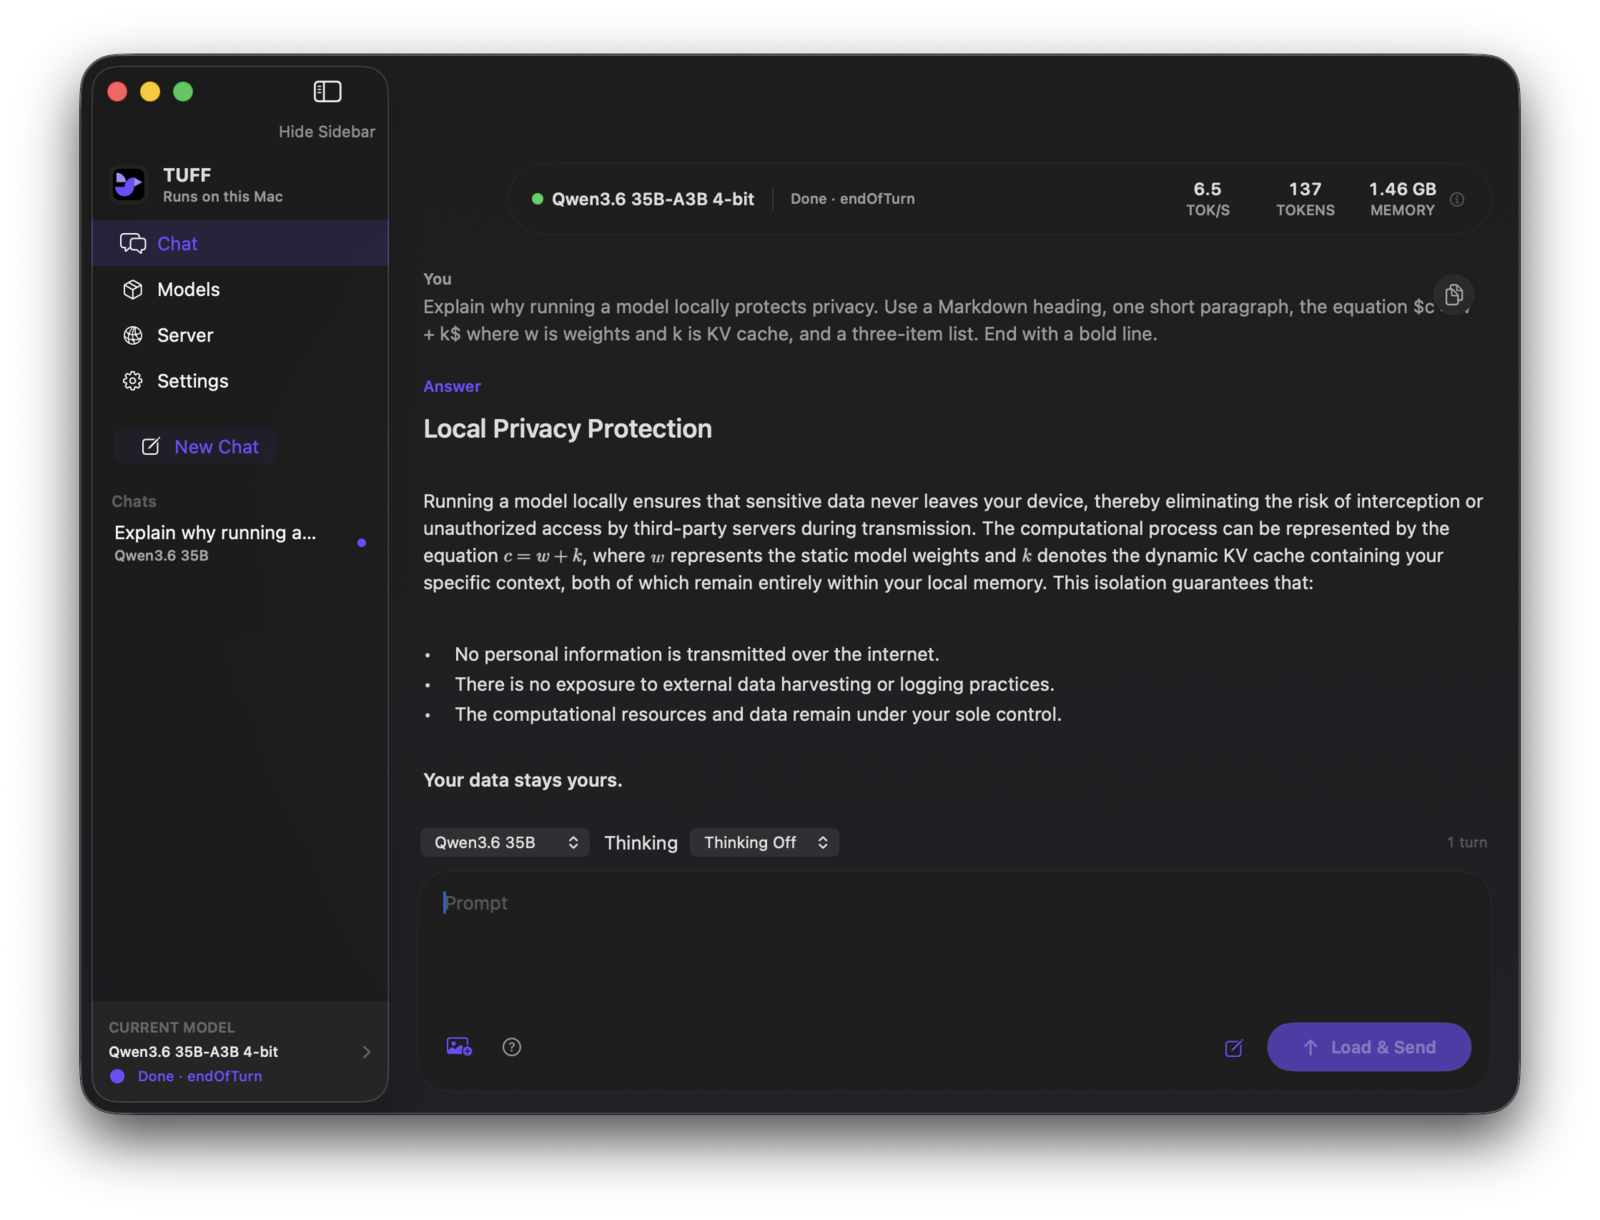
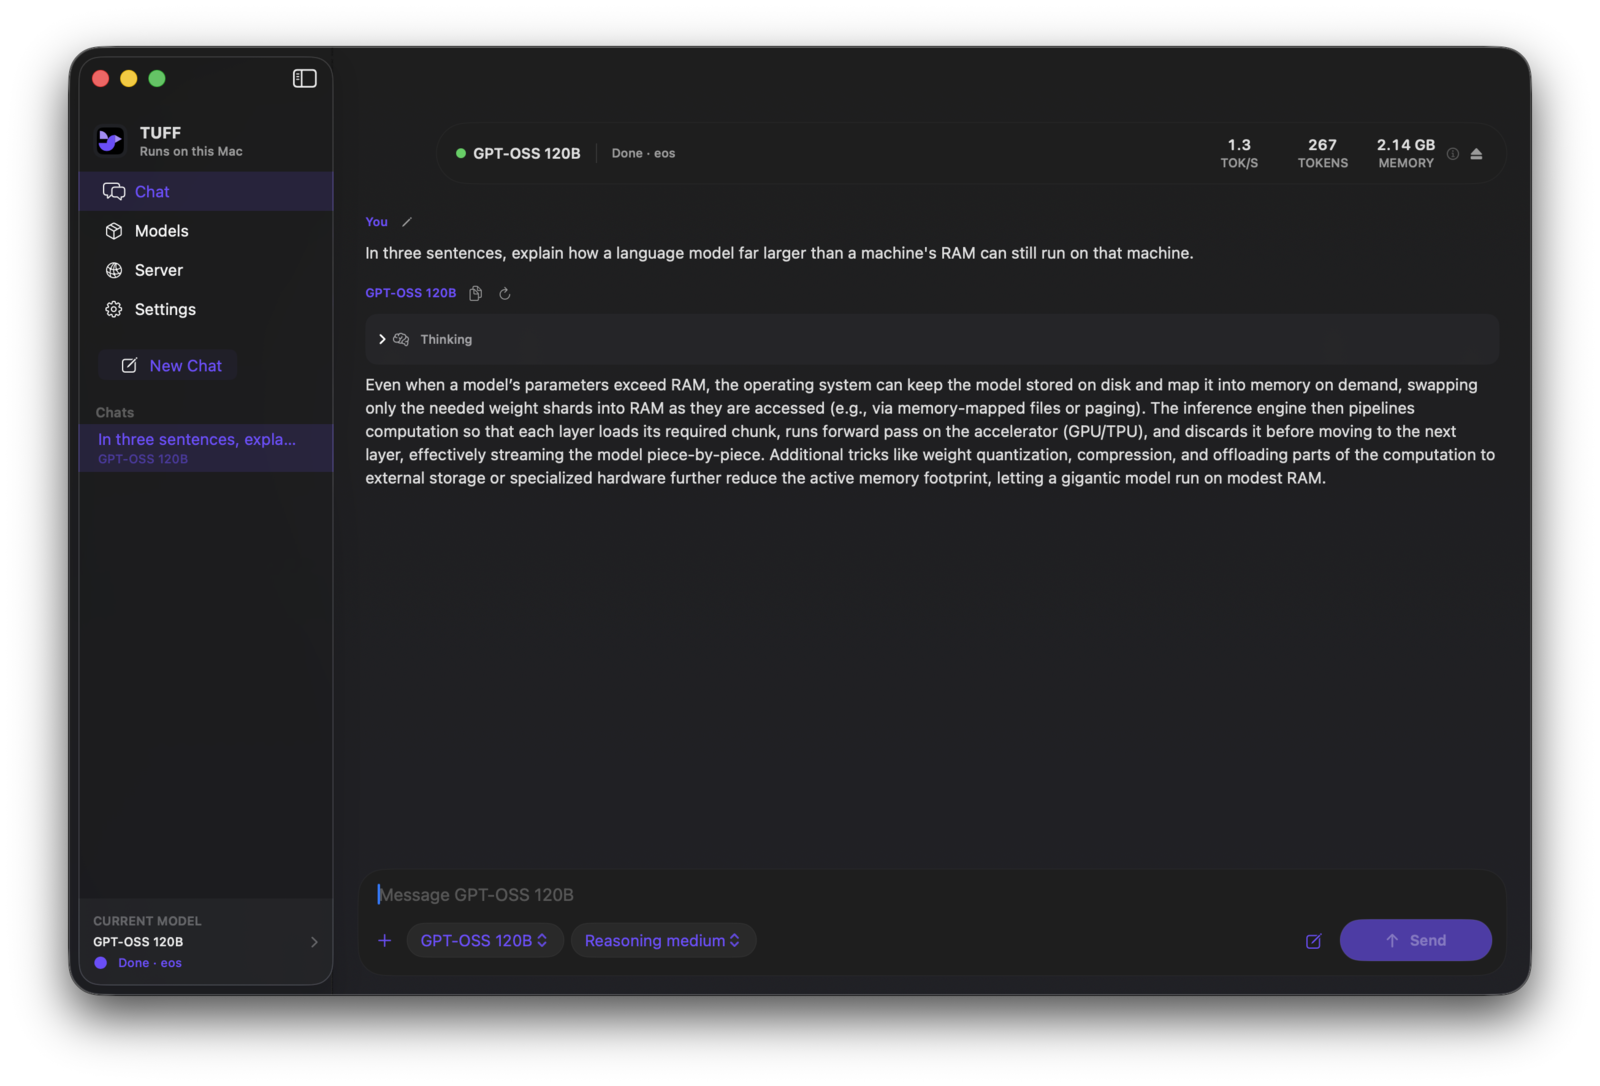
Show v3 in the README and on the site
The model table was missing E2B and 12B QAT, said only the 26B and Qwen
had image packs, and listed five of the seven installer selectors. The
screenshot still showed v2 running Qwen; it now shows GPT-OSS 120B
answering on a 16 GB Mac, which is the claim the page is making.

The download buttons only changed brightness on hover, which is easy to
miss on a dark page. They now lift and scale slightly with a violet cast
under the primary one, keep a visible focus ring for keyboard use, and
drop the movement entirely under prefers-reduced-motion.

diff --git a/site/index.html b/site/index.html
@@ -36,12 +36,32 @@
     display: inline-flex; align-items: center; gap: 9px;
     padding: 13px 26px; border-radius: 999px;
     font-size: 16px; font-weight: 600; text-decoration: none;
-    border: 1px solid transparent; transition: filter .15s ease, background .15s ease;
+    border: 1px solid transparent;
+    transform: translateZ(0);
+    transition: transform .18s cubic-bezier(.2, .7, .3, 1),
+                box-shadow .18s ease, filter .18s ease, background .18s ease,
+                border-color .18s ease;
+  }
+  .button:hover { transform: scale(1.045) translateY(-1px); }
+  .button:active { transform: scale(.985); transition-duration: .06s; }
+  .button:focus-visible {
+    outline: 2px solid var(--violet); outline-offset: 3px;
   }
   .button.primary { background: var(--violet); color: #fff; }
-  .button.primary:hover { filter: brightness(1.12); }
+  .button.primary:hover {
+    filter: brightness(1.12);
+    box-shadow: 0 8px 22px -6px color-mix(in srgb, var(--violet) 65%, transparent);
+  }
   .button.secondary { background: transparent; color: var(--text); border-color: var(--border); }
-  .button.secondary:hover { background: var(--surface-raised); }
+  .button.secondary:hover {
+    background: var(--surface-raised);
+    border-color: color-mix(in srgb, var(--text) 28%, transparent);
+  }
+  /* Scale and lift are decorative; colour still answers the hover without them. */
+  @media (prefers-reduced-motion: reduce) {
+    .button { transition: filter .18s ease, background .18s ease, border-color .18s ease; }
+    .button:hover, .button:active { transform: none; }
+  }
   .meta { color: var(--muted); font-size: 14px; min-height: 20px; }
   .shot { margin: 44px 0 8px; }
   .shot img { width: 100%; height: auto; display: block; border-radius: 14px; }
@@ -88,7 +108,7 @@
   </header>
 
   <div class="shot">
-    <img src="assets/tuff-chat.png" alt="TUFF chatting with Qwen3.6 on a Mac">
+    <img src="assets/tuff-chat.png" alt="TUFF running GPT-OSS 120B on a 16 GB Mac">
   </div>
 
   <section>

diff --git a/README.md b/README.md
@@ -16,7 +16,7 @@
   · <a href="CONTRIBUTING.md">Contribute</a>
 </p>
 
-![TUFF chatting with Qwen3.6 on a Mac](docs/assets/tuff-v2-chat.png)
+![TUFF running GPT-OSS 120B on a 16 GB Mac](docs/assets/tuff-v3-chat.png)
 
 ## What TUFF is
 
@@ -154,7 +154,9 @@ copy of a checkpoint first.
 
 | Model | What I would use it for | Installed size | Minimum memory | Add-ons |
 | --- | --- | ---: | ---: | --- |
-| Gemma 4 E4B IT | A small and quick general model | 4.23 GB | 8 GB | None |
+| Gemma 4 E2B IT | The smallest model here | 2.64 GB | 8 GB | Image input |
+| Gemma 4 E4B IT | A small and quick general model | 4.23 GB | 8 GB | Image input |
+| Gemma 4 12B IT QAT | Dense quality without a mixture of experts | 10.98 GB | 16 GB | Image input |
 | Gemma 4 26B-A4B IT | The balanced default | 14.29 GB | 8 GB | Image input |
 | Qwen3.6 35B-A3B | Coding, long context, and images | 19.55 GB | 8 GB | Image input |
 | GPT-OSS 20B | Reasoning and local tool workflows | 13.79 GB | 16 GB | None |
@@ -219,9 +221,13 @@ reserve. I have not run these models on an 8 GB Mac.
 
 ## Images
 
-Gemma 4 26B and Qwen3.6 use optional `.vision.gturbo` companion packs. They are
-separate because a text-only user should not have to download image weights.
-Install or remove the add-on from its model card.
+Every Gemma 4 model and Qwen3.6 use optional `.vision.gturbo` companion packs.
+They are separate because a text-only user should not have to download image
+weights. Install or remove the add-on from its model card.
+
+A pack is bound to the exact text checkpoint it was built from, not just to the
+model family. Installing one against a different checkpoint is refused at
+download time rather than at first image.
 
 Image input fails closed. If the companion is missing, corrupt, built for a
 different model, or unsupported by the Mac, TUFF rejects the image. It never
@@ -277,8 +283,8 @@ launch. Existing compatible v1 Gemma and Qwen installations remain readable.
 
 ### Command-line interface
 
-The stable installer selectors are `gemma4-e4b`, `gemma4`, `qwen36`,
-`gpt-oss-20b`, and `gpt-oss-120b`:
+The stable installer selectors are `gemma4-e2b`, `gemma4-e4b`,
+`gemma4-12b-qat`, `gemma4`, `qwen36`, `gpt-oss-20b`, and `gpt-oss-120b`:
 
 ```bash
 swift run -c release TUFFRepack \
